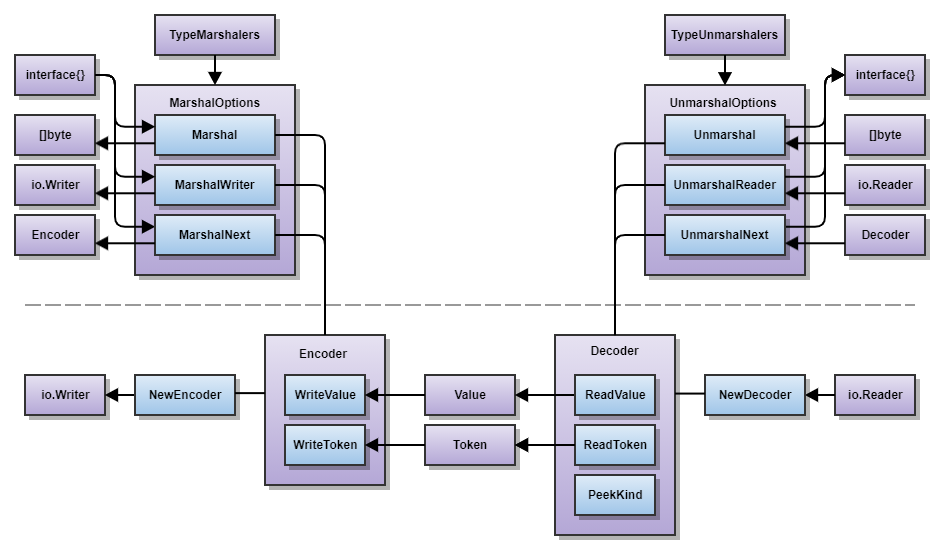
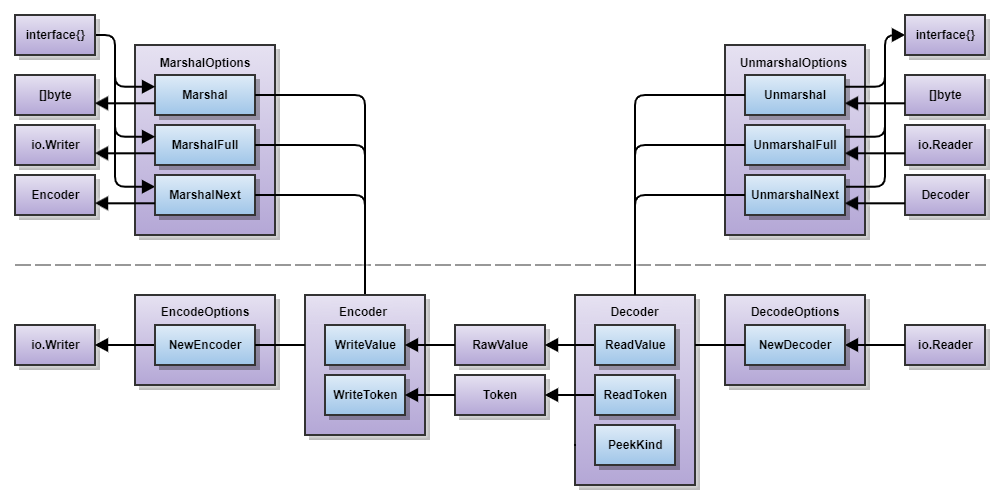
Add Marshal and Unmarshal stub functionality (#51)

diff --git a/arshal_funcs.go b/arshal_funcs.go
@@ -1,0 +1,113 @@
+// Copyright 2020 The Go Authors. All rights reserved.
+// Use of this source code is governed by a BSD-style
+// license that can be found in the LICENSE file.
+
+package json
+
+// SkipFunc may be returned by custom marshal and unmarshal functions
+// that operate on an Encoder or Decoder.
+//
+// Any function that returns SkipFunc must not cause observable side effects
+// on the provided Encoder or Decoder. For example, it is permissible to call
+// Decoder.PeekKind, but not permissible to call Decoder.ReadToken or
+// Encoder.WriteToken since such methods mutate the state.
+const SkipFunc = jsonError("skip function")
+
+// MarshalerV1 is implemented by types that can marshal themselves.
+// It is recommended that types implement MarshalerV2 unless
+// the implementation is trying to avoid a hard dependency on this package.
+type MarshalerV1 interface {
+	MarshalJSON() ([]byte, error)
+}
+
+// MarshalerV2 is implemented by types that can marshal themselves.
+// It is recommended that types implement MarshalerV2 instead of MarshalerV1
+// since this is both more performant and flexible.
+// If a type implements both MarshalerV1 and MarshalerV2,
+// then MarshalerV2 takes precedence. In such a case, both implementations
+// should aim to have equivalent behavior for the default marshal options.
+//
+// The implementation must write only one JSON value to the Encoder.
+type MarshalerV2 interface {
+	MarshalNextJSON(*Encoder, MarshalOptions) error
+
+	// TODO: Should users call the MarshalOptions.MarshalNext method or
+	// should/can they call this method directly? Does it matter?
+}
+
+// Marshalers is a list of functions that may override the marshal behavior
+// of specific types. Populate MarshalOptions.Marshalers to use it.
+// A nil *Marshalers is equivalent to an empty list.
+type Marshalers struct{}
+
+// NewMarshalers constructs a list of marshal functons to override
+// the marshal behavior for specific types.
+//
+// Each input must be a function with one the following signatures:
+//
+//	func(T) ([]byte, error)
+//	func(*Encoder, MarshalOptions, T) error
+//
+// A marshal function operating on an Encoder may return SkipFunc to signal
+// that the function is to be skipped and that the next function be used.
+//
+// The input may also include *Marshalers values, which is equivalent to
+// inlining the list of marshal functions used to construct it.
+func NewMarshalers(fns ...interface{}) *Marshalers {
+	// TODO: Document what T may be and the guarantees
+	// for the values passed to custom marshalers.
+	panic("not implemented")
+}
+
+// UnmarshalerV1 is implemented by types that can unmarshal themselves.
+// It is recommended that types implement UnmarshalerV2 unless
+// the implementation is trying to avoid a hard dependency on this package.
+//
+// The input can be assumed to be a valid encoding of a JSON value.
+// UnmarshalJSON must copy the JSON data if it is retained after returning.
+// It is recommended that UnmarshalJSON implement merge semantics when
+// unmarshaling into a pre-populated value.
+type UnmarshalerV1 interface {
+	UnmarshalJSON([]byte) error
+}
+
+// UnmarshalerV2 is implemented by types that can marshal themselves.
+// It is recommended that types implement UnmarshalerV2 instead of UnmarshalerV1
+// since this is both more performant and flexible.
+// If a type implements both UnmarshalerV1 and UnmarshalerV2,
+// then UnmarshalerV2 takes precedence. In such a case, both implementations
+// should aim to have equivalent behavior for the default unmarshal options.
+//
+// The implementation must read only one JSON value from the Decoder.
+// It is recommended that UnmarshalNextJSON implement merge semantics when
+// unmarshaling into a pre-populated value.
+type UnmarshalerV2 interface {
+	UnmarshalNextJSON(*Decoder, UnmarshalOptions) error
+
+	// TODO: Should users call the UnmarshalOptions.UnmarshalNext method or
+	// should/can they call this method directly? Does it matter?
+}
+
+// Unmarshalers is a list of functions that may override the unmarshal behavior
+// of specific types. Populate UnmarshalOptions.Unmarshalers to use it.
+// A nil *Unmarshalers is equivalent to an empty list.
+type Unmarshalers struct{}
+
+// NewUnmarshalers constructs a list of unmarshal functons to override
+// the unmarshal behavior for specific types.
+//
+// Each input must be a function with one the following signatures:
+//
+//	func([]byte, T) error
+//	func(*Decoder, UnmarshalOptions, T) error
+//
+// An unmarshal function operating on a Decoder may return SkipFunc to signal
+// that the function is to be skipped and that the next function be used.
+//
+// The input may also include *Unmarshalers values, which is equivalent to
+// inlining the list of unmarshal functions used to construct it.
+func NewUnmarshalers(fns ...interface{}) *Unmarshalers {
+	// TODO: Document what T may be and the guarantees
+	// for the values passed to custom unmarshalers.
+	panic("not implemented")
+}

diff --git a/arshal.go b/arshal.go
@@ -1,0 +1,98 @@
+// Copyright 2020 The Go Authors. All rights reserved.
+// Use of this source code is governed by a BSD-style
+// license that can be found in the LICENSE file.
+
+package json
+
+import (
+	"io"
+)
+
+// MarshalOptions configures how Go data is serialized as JSON data.
+// The zero value is equivalent to the default marshal settings.
+type MarshalOptions struct {
+	// Marshalers is a list of type-specific marshalers to use.
+	Marshalers *Marshalers
+
+	// TODO: Add other options.
+}
+
+// Marshal serializes a Go value as a []byte with default options.
+// It is a thin wrapper over MarshalOptions.Marshal.
+func Marshal(in interface{}) (out []byte, err error) {
+	return MarshalOptions{}.Marshal(EncodeOptions{}, in)
+}
+
+// MarshalFull serializes a Go value into an io.Writer with default options.
+// It is a thin wrapper over MarshalOptions.MarshalFull.
+func MarshalFull(out io.Writer, in interface{}) error {
+	return MarshalOptions{}.MarshalFull(EncodeOptions{}, out, in)
+}
+
+// Marshal serializes a Go value as a []byte according to the provided
+// marshal and encode options. It does not terminate the output with a newline.
+// See MarshalNext for details about the conversion of a Go value into JSON.
+func (mo MarshalOptions) Marshal(eo EncodeOptions, in interface{}) (out []byte, err error) {
+	panic("not implemented")
+}
+
+// MarshalFull serializes a Go value into an io.Writer according to the provided
+// marshal and encode options. It does not terminate the output with a newline.
+// See MarshalNext for details about the conversion of a Go value into JSON.
+func (mo MarshalOptions) MarshalFull(eo EncodeOptions, out io.Writer, in interface{}) error {
+	panic("not implemented")
+}
+
+// MarshalNext serializes a Go value as the next JSON value according to
+// the provided marshal options.
+//
+// TODO: Document details for all types are marshaled.
+func (mo MarshalOptions) MarshalNext(out *Encoder, in interface{}) error {
+	panic("not implemented")
+}
+
+// UnmarshalOptions configures how JSON data is deserialized as Go data.
+// The zero value is equivalent to the default unmarshal settings.
+type UnmarshalOptions struct {
+	// Unmarshalers is a list of type-specific unmarshalers to use.
+	Unmarshalers *Unmarshalers
+
+	// TODO: Add other options.
+}
+
+// Unmarshal deserializes a Go value from a []byte with default options.
+// It is a thin wrapper over UnmarshalOptions.Unmarshal.
+func Unmarshal(in []byte, out interface{}) error {
+	return UnmarshalOptions{}.Unmarshal(DecodeOptions{}, in, out)
+}
+
+// UnmarshalFull deserializes a Go value from an io.Reader with default options.
+// It is a thin wrapper over UnmarshalOptions.UnmarshalFull.
+func UnmarshalFull(in io.Reader, out interface{}) error {
+	return UnmarshalOptions{}.UnmarshalFull(DecodeOptions{}, in, out)
+}
+
+// Unmarshal deserializes a Go value from a []byte according to the
+// provided unmarshal and decode options. The output must be a non-nil pointer.
+// The input must be a single JSON value with optional whitespace interspersed.
+// See UnmarshalNext for details about the conversion of JSON into a Go value.
+func (uo UnmarshalOptions) Unmarshal(do DecodeOptions, in []byte, out interface{}) error {
+	panic("not implemented")
+}
+
+// UnmarshalFull deserializes a Go value from an io.Reader according to the
+// provided unmarshal and decode options. The output must be a non-nil pointer.
+// The input must be a single JSON value with optional whitespace interspersed.
+// It consumes the entirety of io.Reader until io.EOF is encountered.
+// See UnmarshalNext for details about the conversion of JSON into a Go value.
+func (uo UnmarshalOptions) UnmarshalFull(do DecodeOptions, in io.Reader, out interface{}) error {
+	panic("not implemented")
+}
+
+// UnmarshalNext deserializes the next JSON value into a Go value according to
+// the provided unmarshal options. The output must be a non-nil pointer.
+//
+// TODO: Document details for all types are unmarshaled.
+func (uo UnmarshalOptions) UnmarshalNext(in *Decoder, out interface{}) error {
+	panic("not implemented")
+}

diff --git a/errors.go b/errors.go
@@ -5,6 +5,7 @@
 package json
 
 import (
+	"reflect"
 	"strconv"
 	"strings"
 )
@@ -38,9 +39,46 @@ func (e *wrapError) Error() string        { return errorPrefix + e.str + ": " + 
 func (e *wrapError) Unwrap() error        { return e.err }
 func (e *wrapError) Is(target error) bool { return e == target || target == Error }
 
+// TODO: Rename the exported error types?
+//
+// The words "semantic" and "syntactic" are adjectives.
+// The words "semantics" and "syntax" are nouns.
+// To be consistent, the error types should either be called
+//	"SemanticError" and "SyntacticError", or
+//	"SemanticsError" and "SyntaxError".
+// Since "Error" is a noun and the word before it is usually an adjective,
+// this suggests that "SemanticError" and "SyntacticError" are the right names.
+
+// SemanticError describes an error determining the meaning
+// of JSON data as Go data or vice-versa.
+//
+// The contents of this error as produced by this package may change over time.
+type SemanticError struct {
+	// Offset indicates that an error occurred after processing Offset bytes.
+	Offset int64
+	// Pointer indicates that an error occurred within this specific JSON value
+	// as indicated using the JSON Pointer notation (see RFC 6901).
+	Pointer string
+	// TODO: Rename Offset as ByteOffset and Pointer as JSONPointer?
+	// If so, rename SyntaxError.Offset to be consistent.
+
+	// JSONKind is the JSON kind that could not be handled.
+	JSONKind Kind // may be zero if unknown
+	// GoType is the Go type that could not be handled.
+	GoType reflect.Type // may be nil if unknown
+
+	str string
+}
+
+func (e *SemanticError) Error() string        { return errorPrefix + e.str }
+func (e *SemanticError) Is(target error) bool { return e == target || target == Error }
+
 // SyntaxError is a description of a JSON syntax error.
+//
+// The contents of this error as produced by this package may change over time.
 type SyntaxError struct {
-	Offset int64 // error occurred after processing Offset bytes
+	// Offset indicates that an error occurred after processing Offset bytes.
+	Offset int64
 	str    string
 }
 

diff --git a/README.md b/README.md
@@ -82,8 +82,8 @@ the packing or parsing of JSON data. They operate on `Token` and `Value` types
 which represent the common data structures that are representable in JSON.
 `Encoder` and `Decoder` do not aim to provide any interpretation of the data.
 
-Top-level functions like `Marshal`, `MarshalWriter`, `MarshalNext`, `Unmarshal`,
-`UnmarshalReader`, and `UnmarshalNext` provide semantic meaning by correlating
+Functions like `Marshal`, `MarshalFull`, `MarshalNext`, `Unmarshal`,
+`UnmarshalFull`, and `UnmarshalNext` provide semantic meaning by correlating
 any arbitrary Go type with some JSON representation of that type (as stored in
 data types like `[]byte`, `io.Writer`, `io.Reader`, `Encoder`, or `Decoder`).
 
